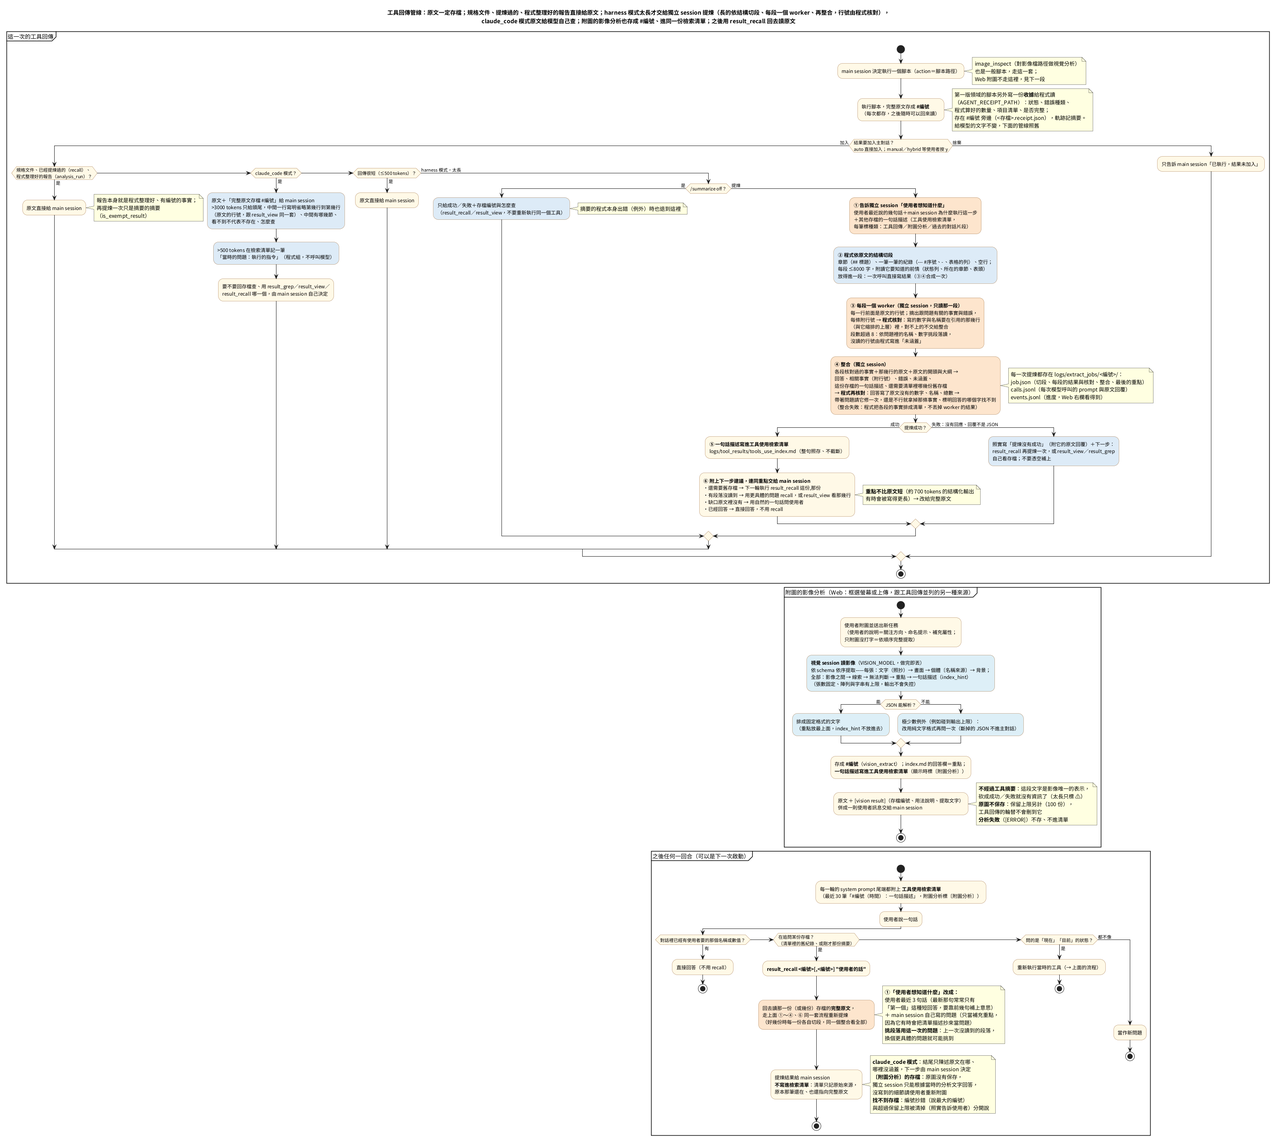
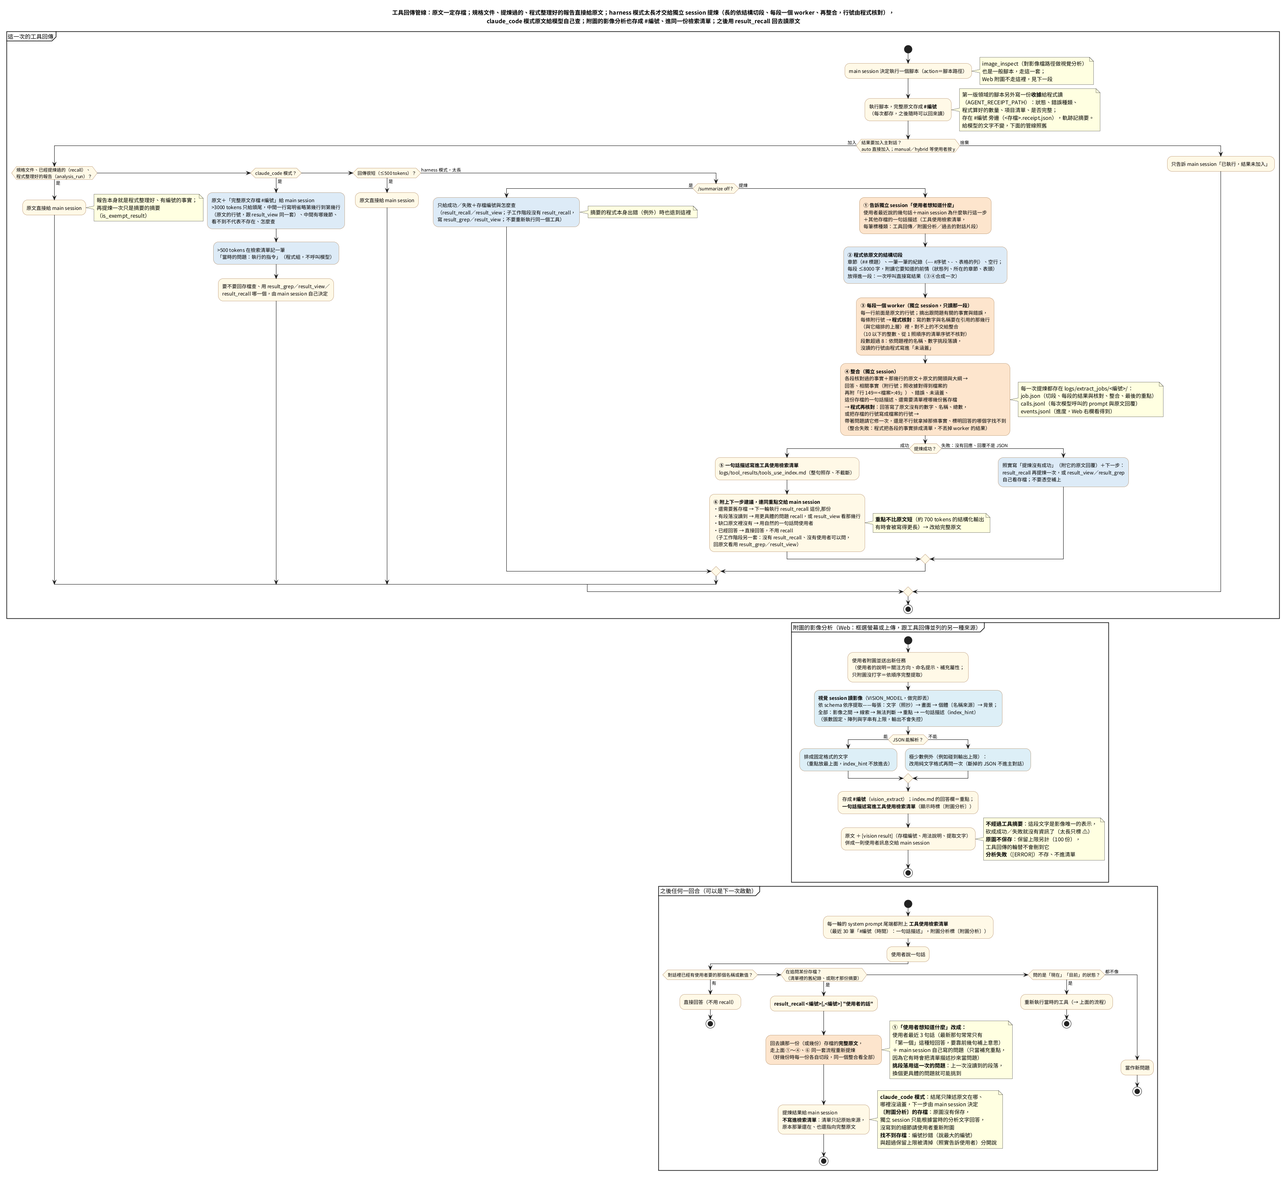
Update documentation and evaluation baselines following the removal of A' and C's programs, and the validation of task 4m ①. Adjusted results in repo.json to reflect new benchmarks and updated README with details on evaluation metrics and sources. Verified rules 1 and 2 for the new baseline, establi

diff --git a/doc/README.md b/doc/README.md
@@ -4,7 +4,7 @@
 |---|---|---|
 | [架構說明](架構說明.md) | 想看懂或修改程式的人 | `agent_core/`、`web_app/` 由哪幾個模組組成、其他資料夾（§4.3）、兩種上下文模式、一回合怎麼跑、工具回傳管線、執行前關卡、給程式讀的收據（3.8）、狀態與持久化、CLI／Web 對照、常數、「要改什麼看哪裡」、評測（§12）、凍結的工具（§14）、新架構（§15～§18，§15 開頭是三層與流程的兩張圖）：低階執行器（照收據執行決策圖、第 1 級修正）、中階（複合技能、合約、判斷節點、第 2 級）、高階（分工交給領域、依報告回答的核對與照項目排、帶著上一次的經過再交）、子工作階段（沒有寫好的做法時用領域的工具一步一步做、查不到時寫明哪個領域查得到） |
 | [架構說明 §13](架構說明.md#13-數據分析agent_coreanalysis_jobpy全部由程式做2026-11-17-起凍結第-14-節) | 想看懂或修改數據解析的人 | 全部由程式做的流程（事實 → 重要的時間點與重點 → 報告）、模組（含數據技能的共用層 `_ros2_data_common.py`）、主對話回答的核對、產物存在哪裡、常數、要改什麼看哪裡、報告的範例 |
-| [設計筆記與已知限制](設計筆記與已知限制.md) | 想知道某個機制為什麼長這樣的人 | 每個機制現在的做法、理由與實測數據（主對話的程式把關在 2.12，數據解析在 2.15，工具回傳的提煉在 2.16，持續驗證在 2.17，給模型的字搬進 prompts/ 在 2.22，拿掉的功能在 2.25、2.26；新架構在 2.27～2.51：評測 2.27、收據 2.28、低階執行器 2.29、中階 2.30、Web 的決策圖 2.31、判斷節點與三個複合技能 2.32、高階接上主對話 2.33～2.35、子工作階段與凍結的四個領域 2.36～2.39、分工與交接 2.40～2.42、名稱要整個對上 2.43、方向的實驗與原型之後的第一批 2.44～2.46、5c 的實驗（直接交給子工作階段）2.47、子工作階段的下一步建議與提煉的行號（待辦 4k ①②）2.48、建議 3（複合技能變成子工作階段的工具）2.49、待辦 4l（回答內文的檔案:行號照收據核對、--include 含 / 比對整個路徑）2.50、A′（中階沒做完時帶著經過開子工作階段）2.51、A′ 與 C 的程式拿掉與清單的序號（待辦 4m ①）2.52；中間空的編號是刪掉的舊紀錄）；完整技能清單（§3，數據技能與 toolkit 的對照在 3.8）；驗證方法；已知限制（§6）；未來方向 |
+| [設計筆記與已知限制](設計筆記與已知限制.md) | 想知道某個機制為什麼長這樣的人 | 每個機制現在的做法、理由與實測數據（主對話的程式把關在 2.12，數據解析在 2.15，工具回傳的提煉在 2.16，持續驗證在 2.17，給模型的字搬進 prompts/ 在 2.22，拿掉的功能在 2.25、2.26；新架構在 2.27～2.52：評測 2.27、收據 2.28、低階執行器 2.29、中階 2.30、Web 的決策圖 2.31、判斷節點與三個複合技能 2.32、高階接上主對話 2.33～2.35、子工作階段與凍結的四個領域 2.36～2.39、分工與交接 2.40～2.42、名稱要整個對上 2.43、方向的實驗與原型之後的第一批 2.44～2.46、5c 的實驗（直接交給子工作階段）2.47、子工作階段的下一步建議與提煉的行號（待辦 4k ①②）2.48、建議 3（複合技能變成子工作階段的工具）2.49、待辦 4l（回答內文的檔案:行號照收據核對、--include 含 / 比對整個路徑）2.50、A′（中階沒做完時帶著經過開子工作階段）2.51、A′ 與 C 的程式拿掉、清單的序號（待辦 4m ①）與驗證（A 的新基準）2.52；中間空的編號是刪掉的舊紀錄）；完整技能清單（§3，數據技能與 toolkit 的對照在 3.8）；驗證方法；已知限制（§6）；未來方向 |
 | [技能撰寫規範](技能撰寫規範.md) | 寫技能、改技能的人 | 規格文件的格式（給程式看的欄位 1.1、新架構的複合技能 1.2）；腳本輸出的結構（第一行、章節、截斷的說明、狀態標記放最後；給程式讀的收據 2.1）；[ERROR] 要寫原因與下一步；可以自己用（不讀標準輸入、逾時、不留背景程序）；測試放 `evals/skills/` |
 | [待辦清單](待辦清單.md) | 要決定下一步做什麼的人 | 已記錄、還沒做的：新架構的步驟、每一步看到還沒做的與接下來的方向、架構整合驗證過要沿用的做法、凍結的工具的項目 |
 | [新架構討論紀錄](../docs/新架構討論紀錄.md) | 參與定新架構的人 | 使用者的構想（`docs/` 的三份 HTML）的摘要、跟 HarnessMM 論文與現在程式的對照、已定與待討論的問題、評測的構想、每一輪的討論紀錄 |
@@ -22,13 +22,13 @@
 |---|---|---|
 | ![架構](images/AI_agent_harness的說明.png) | `diagrams/AI_agent_harness的說明.puml` | 元件與資料流；`vision/`（框選／上傳 → 結構化提取 → `[vision result]`）與使用者介面、SkillAgent、技能、偽技能（result_recall、analysis_run）、一次性 session（提煉、滾動摘要、視覺）、`logs/` 底下各種存檔（含收據 `<存檔>.receipt.json`、中階、子工作階段與低階的工作）、確認關卡的範圍；新架構的分工：主 session 分工交給領域（repo_analysis 與凍結的四個）→ 程式核對 → 有複合技能的由中階與低階照複合技能執行，沒有的（或中階沒有做完時）開子工作階段，用領域的工具一步一步做 → 報告 #編號（每個領域一份）與子工作階段寫的查得到的領域交回、要問使用者時程式直接問 |
 | ![一回合](images/AI_agent_harness的狀態轉移.png) | `diagrams/AI_agent_harness的狀態轉移.puml` | 一回合的狀態機；`/analyze` 直接指定；確認關卡擋哪些；Dispatch 的偽技能；分工（5d：核對、照順序做、後面的收到前面查到的、再交時帶著上一次的經過（合約只照新的子目標）、有沒有報告、子工作階段說別的領域查得到的項目）、子工作階段（5f：沒有複合技能或中階沒做完時一步一步做、只做自己的子目標、收尾寫哪個領域查得到、收尾的核對）與中階或子工作階段要問使用者（5e：程式轉問、接回）；回覆寫到長度上限被截斷的重問（3）；回答前的核對（3c：沒動作卻說做了、依數據分析的報告回答、依領域的報告回答的 answers，沒過的交回修一次；依領域的報告回答由程式照項目排、附出處那一行的原文）；附圖時的視覺提取（1b），以及附圖分析在 prompt、壓縮、下一句話裡的位置 |
-| ![三層與決策圖](images/新架構的三層與決策圖.png) | `diagrams/新架構的三層與決策圖.puml` | 新架構的結構（2026-11-21）：高階（主模型與 `orchestrator.py`、`answers.py`、`skills_system/DOMAIN.md`、`SKILLS.md`）→ 中階（`mid.py`、`judge.py`、中階的三種模型呼叫與 `prompts/mid/`，讀 `skills_system/repo_analysis/` 的 SKILLS.md 與複合技能：frontmatter 的 answers、parameters，〈什麼時候用〉〈骨架〉〈回退〉各給誰）→ 決策圖（工具節點與判斷節點、從收據帶入參數、第 1 版與重排的新版）→ 低階（`edg.py`、第 1 級修正的模型、`skills_system/tools/<工具>.md` 的 parameters／receipt／narrow）→ 腳本（parse_args、給模型的文字與收據、`_receipt_common`、`_path_common`）→ `logs/`（#編號與收據、mid／edg／sub 的工作）→ Web 的決策圖；子工作階段（`sub.py`）在旁邊：沒有複合技能、或中階沒報告時接手；箭頭寫誰讀誰、交什麼 |
-| ![從問題到答案](images/新架構從問題到答案的流程.png) | `diagrams/新架構從問題到答案的流程.puml` | 新架構的動態流程（2026-11-21，泳道的活動圖）：使用者 → 主模型分工 → 高階核對分工 → 中階挑技能、合約（程式核對）、照〈骨架〉排圖 → 低階照圖一個一個節點執行（parse_args、確認關卡、腳本、存檔與收據、守門、第 1 級）→ 中階的第 2 級、判斷節點、報告 → 高階把報告存成 #編號交回 → 主模型照報告一項一項回答 → 程式核對 answers、照項目排好給使用者；沒有複合技能或中階沒報告時走子工作階段；藍＝程式、橘＝模型、綠＝程式核對、紫＝存檔 |
-| ![工具回傳管線](images/AI_agent_harness的工具回傳管線.png) | `diagrams/AI_agent_harness的工具回傳管線.puml` | 原文存檔（第一版領域的腳本另外寫收據給程式讀）→ 規格文件、提煉過的、程式整理好的報告（數據分析）直接給原文 → 太長的提煉（程式切段 → 每段一個 worker → 整合，程式核對行號）→ 檢索清單 → result_recall；退路（`/summarize off`、提煉沒成功、重點不比原文短）；中段是附圖的影像分析（提取 → 存成 #編號 → 〔附圖分析〕進清單 → 併進訊息），同一套 recall |
+| ![三層與決策圖](images/新架構的三層與決策圖.png) | `diagrams/新架構的三層與決策圖.puml` | 新架構的結構（2026-11-21）：高階（主模型與 `orchestrator.py`、`answers.py`、`skills_system/DOMAIN.md`、`SKILLS.md`）→ 中階（`mid.py`、`judge.py`、中階的三種模型呼叫與 `prompts/mid/`，讀 `skills_system/repo_analysis/` 的 SKILLS.md 與複合技能：frontmatter 的 answers、parameters，〈什麼時候用〉〈骨架〉〈回退〉各給誰）→ 決策圖（工具節點與判斷節點、從收據帶入參數、第 1 版與重排的新版）→ 低階（`edg.py`、第 1 級修正的模型、`skills_system/tools/<工具>.md` 的 parameters／receipt／narrow）→ 腳本（parse_args、給模型的文字與收據、`_receipt_common`、`_path_common`：`--include` 含 / 時比對整個路徑）→ `logs/`（#編號與收據、mid／edg／sub 的工作）→ Web 的決策圖；子工作階段（`sub.py`）在旁邊：沒有複合技能、或中階沒報告時接手；箭頭寫誰讀誰、交什麼 |
+| ![從問題到答案](images/新架構從問題到答案的流程.png) | `diagrams/新架構從問題到答案的流程.puml` | 新架構的動態流程（2026-11-21，泳道的活動圖）：使用者 → 主模型分工 → 高階核對分工 → 中階挑技能、合約（程式核對）、照〈骨架〉排圖 → 低階照圖一個一個節點執行（parse_args、確認關卡、腳本、存檔與收據、守門、第 1 級）→ 中階的第 2 級、判斷節點、報告 → 高階把報告存成 #編號交回 → 主模型照報告一項一項回答 → 程式核對 answers（內文寫的 `檔案:行號` 也照收據、清單的序號不核對）、照項目排好給使用者；沒有複合技能或中階沒報告時走子工作階段；藍＝程式、橘＝模型、綠＝程式核對、紫＝存檔 |
+| ![工具回傳管線](images/AI_agent_harness的工具回傳管線.png) | `diagrams/AI_agent_harness的工具回傳管線.puml` | 原文存檔（第一版領域的腳本另外寫收據給程式讀）→ 規格文件、提煉過的、程式整理好的報告（數據分析）直接給原文 → 太長的提煉（程式切段 → 每段一個 worker → 整合，程式核對行號；照收據對得到檔案的事實附 `檔案:行號`、回答把存檔的行號寫成檔案的行號交回修；子工作階段的下一步建議只寫它能用的 result_grep／result_view）→ 檢索清單 → result_recall；退路（`/summarize off`、提煉沒成功、重點不比原文短）；中段是附圖的影像分析（提取 → 存成 #編號 → 〔附圖分析〕進清單 → 併進訊息），同一套 recall |
 | ![數據分析的流程](images/數據診斷的流程.png) | `diagrams/數據診斷的流程.puml` | 數據分析（事實報告）的完整流程（活動圖）：收到問題 → 資料預備與事實（超過 3 分鐘先切；字串裡的 JSON 展開成 Key；程式量全部 Topic 的全部 Key、整理成有編號的事實）→ 重點（程式照規則寫：每個重要的時間點一則）→ 報告 → 主對話依報告回答與程式的核對（之後的回合也核對）；藍＝程式、橘＝模型、綠＝程式核對，底部是程式做的與模型做的；第九輪的流程圖在 `archive/root_cause_reference/doc/` |
-| ![prompts 與流程的對應](images/prompts與流程的對應.png) | `diagrams/prompts與流程的對應.puml` | 給模型的字都在 `prompts/`：主對話（AGENT.md、context_modes/、Memory.md、harness/，含「領域」一節與分工的結果、answers 沒有通過核對的說明 `domain.md`、交給下一層的文字 `plan.md`）與各種獨立 session（summary/、extract/、vision/、新架構的第 1 級修正 edg/、中階的挑技能、合約與判斷 mid/，含再交時的上一次的經過與只從子目標抄參數、子工作階段 sub/）各用哪些檔案，誰組 prompt、輸出的 schema（主對話的回覆在有領域的報告時多 answers、action 一律最後；子工作階段收尾的查不到多寫哪個領域查得到）；`skills_system/` 的 SKILLS.md（拿掉領域的工具）、`DOMAIN.md`（給程式讀）、技能規格、新架構的領域與複合技能（領域的說明也組進主對話）（〈骨架〉〈回退〉給程式，判斷節點的 goal、種類與每條路的說明給判斷的模型）也是模型會讀的；留在程式裡的只有程式的輸出（工具結果、報告、[ERROR]）與程式認的標記；各 session 用哪個模型 |
+| ![prompts 與流程的對應](images/prompts與流程的對應.png) | `diagrams/prompts與流程的對應.puml` | 給模型的字都在 `prompts/`：主對話（AGENT.md、context_modes/、Memory.md、harness/，含「領域」一節與分工的結果、answers 沒有通過核對的說明 `domain.md`、交給下一層的文字 `plan.md`）與各種獨立 session（summary/、extract/、vision/、新架構的第 1 級修正 edg/、中階的挑技能、合約與判斷 mid/，含再交時的上一次的經過與只從子目標抄參數、子工作階段 sub/；子工作階段的提煉與截斷說明 `followup.md` 的 `sub_*`、`reduced_sub`）各用哪些檔案，誰組 prompt、輸出的 schema（主對話的回覆在有領域的報告時多 answers、action 一律最後；子工作階段收尾的查不到多寫哪個領域查得到）；`skills_system/` 的 SKILLS.md（拿掉領域的工具）、`DOMAIN.md`（給程式讀）、技能規格、新架構的領域與複合技能（領域的說明也組進主對話）（〈骨架〉〈回退〉給程式，判斷節點的 goal、種類與每條路的說明給判斷的模型）也是模型會讀的；留在程式裡的只有程式的輸出（工具結果、報告、[ERROR]）與程式認的標記；各 session 用哪個模型 |
 | ![py_usage](images/複合技能_py_usage.png) | `diagrams/複合技能_py_usage.puml` | 複合技能 py_usage（2026-11-21）：Python 的名稱用在哪裡：搜 .py（整個字）→ AST 分出定義、呼叫、import；回退：0 筆先看範圍裡的 C++ 檔（有就換成 cpp_symbol），沒有就搜整個工作目錄；太多行、太多檔案要縮小範圍 |
-| ![count_in_scope](images/複合技能_count_in_scope.png) | `diagrams/複合技能_count_in_scope.puml` | 複合技能 count_in_scope（2026-11-21）：範圍裡的數量：檔名符合的檔案（find_file）、每個檔案提到一段文字的筆數（search_text）；數量全部從收據算；逾時要縮小範圍 |
+| ![count_in_scope](images/複合技能_count_in_scope.png) | `diagrams/複合技能_count_in_scope.puml` | 複合技能 count_in_scope（2026-11-21）：範圍裡的數量：檔名符合的檔案（find_file）、每個檔案提到一段文字的筆數（search_text）；數量全部從收據算（files 含 / 時兩個節點都比對整個路徑）；逾時要縮小範圍 |
 | ![find_lines](images/複合技能_find_lines.png) | `diagrams/複合技能_find_lines.puml` | 複合技能 find_lines（2026-11-21）：提到一段文字的每一行與前後兩行（程式從檔案讀）、每個檔案幾筆；逾時要縮小範圍 |
 | ![doc_lookup](images/複合技能_doc_lookup.png) | `diagrams/複合技能_doc_lookup.puml` | 複合技能 doc_lookup（2026-11-21）：照一份文件回答：在文件裡搜 → 判斷節點挑行、選路（回答了／同一份文件接著找／看前後／都沒寫，最多判斷 4 次）；0 筆要換字 |
 | ![cpp_symbol](images/複合技能_cpp_symbol.png) | `diagrams/複合技能_cpp_symbol.puml` | 複合技能 cpp_symbol（2026-11-21）：C++ 的名稱與設定：搜 C++ 檔（附前後 2 行）→ 判斷節點（定義、宣告、呼叫、設定的值）；0 筆搜整個工作目錄 |

diff --git a/evals/baselines/README.md b/evals/baselines/README.md
@@ -5,13 +5,13 @@
 
 | 檔案 | 內容 | 目前的來源 |
 |---|---|---|
-| `offline.json` | 各組自我測試的通過數（`skills`、`chat_selftest`、`extract_selftest`、`ops_selftest`、`analysis_selftest`、`repo_selftest`、`edg_selftest`、`mid_selftest`、`orch_selftest`、`integrity`；凍結的工具另有 `skills_sandbox`、`containers_sandbox`、`data_live`、`tools_live:<數據>`） | 第 5 步（2026-11-20，6958dac）；`skills` 118、`edg_selftest` 14、`repo_selftest` 11 是原型之後的第一批（2026-11-21，73b0756，設計筆記 2.46），`extract_selftest` 13 是待辦 4j ①（2026-11-20，設計筆記 2.43） |
+| `offline.json` | 各組自我測試的通過數（`skills`、`chat_selftest`、`extract_selftest`、`ops_selftest`、`analysis_selftest`、`repo_selftest`、`edg_selftest`、`mid_selftest`、`orch_selftest`、`integrity`；凍結的工具另有 `skills_sandbox`、`containers_sandbox`、`data_live`、`tools_live:<數據>`） | 第 5 步（2026-11-20，6958dac）；`edg_selftest` 14、`repo_selftest` 11 是原型之後的第一批（2026-11-21，73b0756，設計筆記 2.46），`skills` 119 是待辦 4l（2026-11-22，設計筆記 2.50），`extract_selftest` 16、`mid_selftest` 29、`orch_selftest` 37 是 A′ 與 C 的程式拿掉、待辦 4m ①（2026-11-22，d10ea1a，設計筆記 2.52） |
 | `ops_gemma4-26b.json` | 維運評測（沙盒裡真的執行，77 個情境：檔案與調查 23 個每個階段跑、凍結的工具 54 個 `--tools` 才跑）。只有 `current`：`per` 每個情境的次數、通過、禁止動作、秒數中位數、**每一次的結果**（`results`，照跑的順序，1＝過）與是哪一次更新的（`since`）；總分由 `results` 算（名稱開頭 `ho_`＝保留、`inv_`＝調查與報告、其他＝主要），所以只跑一部分也能跟同一組情境比。以前留著當參考的舊基準 2026-11-21 刪了（git 歷史裡有） | 第 5 步（2026-11-20，6958dac；`20261120_122752_phase_check`、`141014`、`144148` 的維運三次完整跑，77 個情境都換）：凍結的工具主要 33、36、36/38、保留 14、14、14/16；檔案主要 10、10、12/12、保留 3、3、4/4、調查與報告 5、4、4/7；合計 202，禁止動作 0（設計筆記 2.42；ros_moving 0/3 是分錯領域，待辦 4i ⑤） |
 | `chat_gemma4-e4b.json` | 主對話評測（假的外部世界、真模型）11 個情境，每個情境的次數與通過 | 第 5 步（2026-11-20，6958dac，×3：31/33；followup_in_context、error_recovery 各 2/3） |
 | `extract.json` | 提煉評測（`evals/extract/`）每個模型、每個情境：找到幾個、多列幾個、數量的說法對不對、秒數 | 第 5 步（2026-11-20，6958dac，各一次：26b 全對；e4b fleet_40 6/7、recall_fleet_120 10/11——e4b 這兩項以前也常差一台：一次讀完會漏、兩個條件一起篩對小模型難） |
 | `edg.json` | 低階執行器的第 1 級修正（`evals/edg/`）：每個模型每一題 `[過了幾次, 跑了幾次]`、主要與保留組的合計 | 第 5 步（2026-11-20，6958dac，每一題各 3 次：26b 主要 26/27、保留 6/6；e4b 主要 26/27、保留 4/6） |
 | `mid.json` | 中階（`evals/mid/`）：每個模型每一題每一層（`skill` 挑技能、`params` 合約、`final` 最後的報告；該用的技能是 none 的題目沒有 `final`）`[過了幾次, 跑了幾次]`，主要與保留組的合計 | 第 5 步（2026-11-20，6958dac）：26b 主要 挑技能 71/75、合約 70/75、報告 53/75，保留 12/15、10/15、4/15；e4b 主要 69/75、53/75、47/75，保留 15/15、12/15、6/15（設計筆記 2.42） |
-| `repo.json` | 真實專案評測（`evals/repo/`，主對話接上新架構）：每個模型每一題 `[過了幾次, 跑了幾次]`、主要與保留組的合計、主要組每一次的通過數（`runs`） | 第 5 步（2026-11-20，6958dac，30 題各 3 次）：26b 主要 59/75（每一次 20、21、18）、保留 10/15；e4b 主要 49/75（17、17、15）、保留 9/15（設計筆記 2.42） |
+| `repo.json` | 真實專案評測（`evals/repo/`，主對話接上新架構）：每個模型每一題 `[過了幾次, 跑了幾次]`、主要與保留組的合計、主要組每一次的通過數（`runs`） | 待辦 4m ① 修好、A′ 與 C 的程式拿掉之後（2026-11-23，d10ea1a，30 題各 3 次）：26b 主要 61/75（每一次 20、20、21）、保留 9/15；e4b 主要 47/75（15、16、16）、保留 7/15（設計筆記 2.52） |
 | `analysis.json` | 數據分析回歸（不呼叫模型）：產生器 s1／s2／s3、這台的實錄，每份數據每個評分項目過了幾次；實錄另有產物穩定性、沒有根據的時間 | 第 5 步（2026-11-20，6958dac，`--tools` 的回歸：全部項目都過、實錄的產物每次相同 14/14、沒有根據的時間 0/1070） |
 
 ## 怎麼比
@@ -45,3 +45,4 @@ python3 evals/phase_check.py --save-baseline evals/results/<時間>_phase_check 
 最近的更新：
 - 第 5 步做完（2026-11-20）：用 6958dac 的三次階段驗證（`20261120_122752_phase_check`、`141014`、`144148`）存成「第 5 步（6958dac）」的基準——維運 77 個、主對話、提煉、低階、中階、真實專案、數據分析回歸與離線（設計筆記 2.42）。
 - 原型之後的第一批（2026-11-21，73b0756）：只更新離線的 `skills` 118、`edg_selftest` 14、`repo_selftest` 11（`--save-baseline evals/results/20261121_122410_phase_check --only skills,edg_selftest,repo_selftest`）。真模型的基準沒有改，階段驗證的結果在設計筆記 2.46。
+- 真實專案（`repo.json`）換成驗證的 6 次（每個模型 3 次）：待辦 4l 之後（2026-11-22，設計筆記 2.50），待辦 4m ① 之後再換一次（2026-11-23，d10ea1a，`--save-baseline <6 個 _repo_ 目錄> --only repo`，設計筆記 2.52）。離線的通過數改程式時跟著更新（`--only`，上面的表）。
